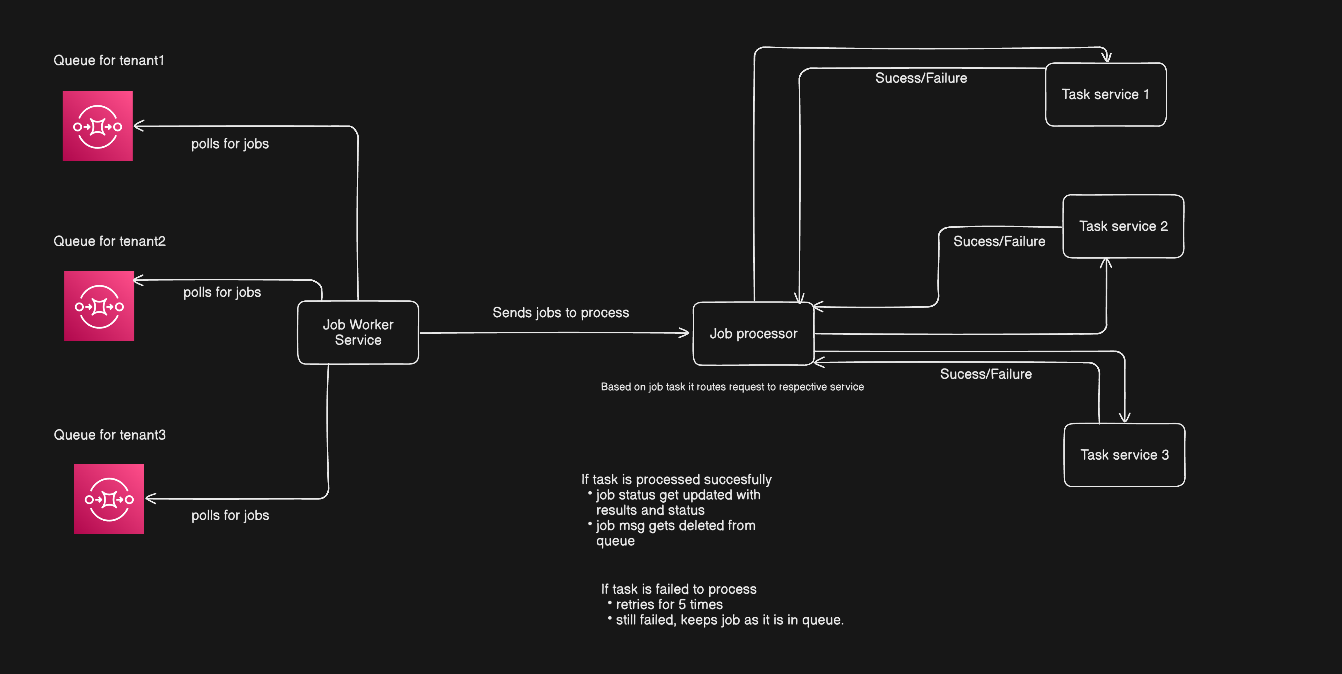
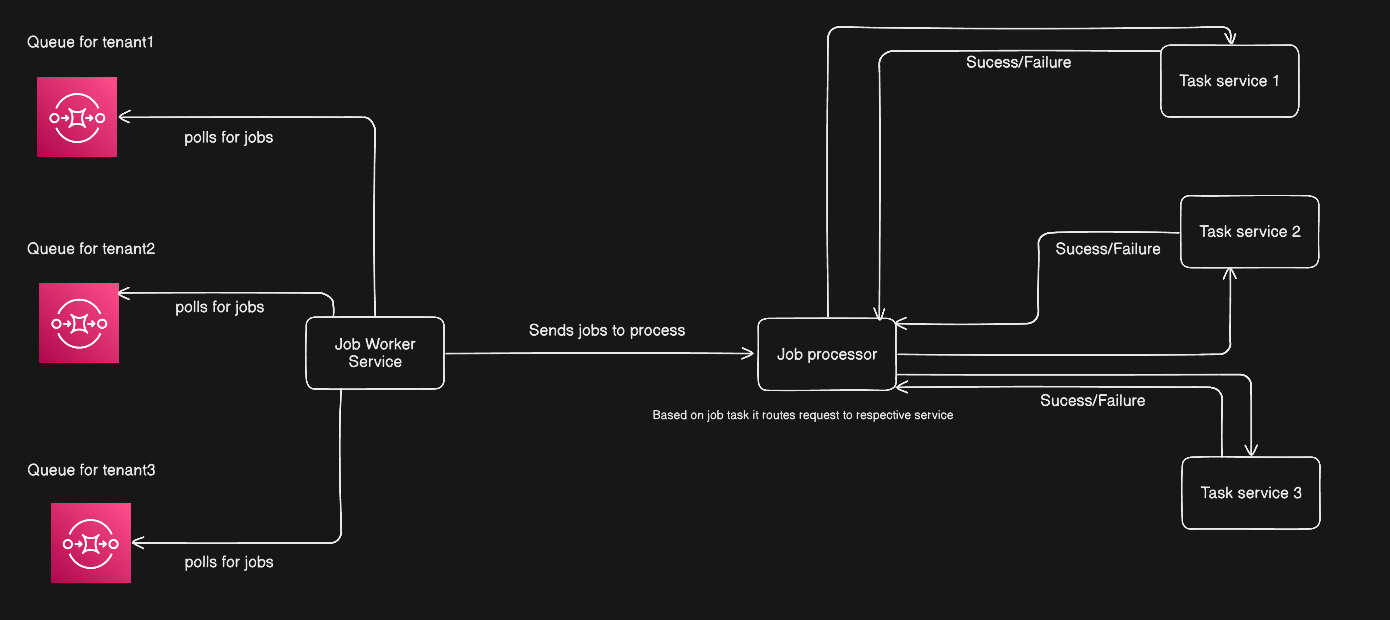
added system design

diff --git a/README.md b/README.md
@@ -26,11 +26,12 @@ It uses an event-driven approach to handle async background tasks like emails, i
 
 ---
 
-
 ## Architecture
 
 ![N Tier Architecture for SnapQueue API](./architecture/api-archi.png)
 
 ![Job Processing Design](./architecture/job-archi.png)
+
+![SnapQueue High Design](./architecture/design.png)
 
 ---
